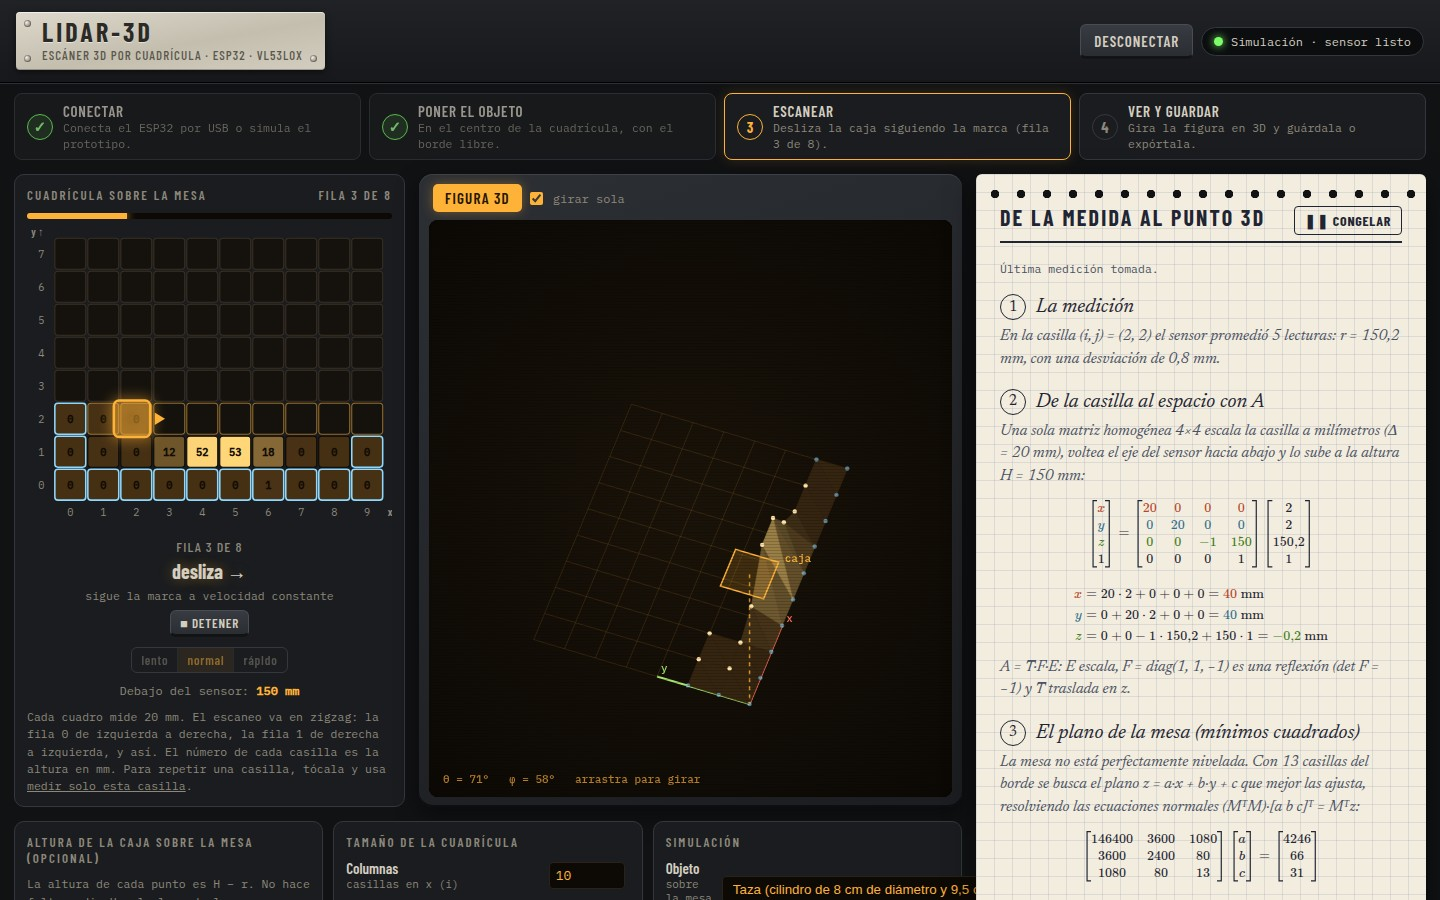
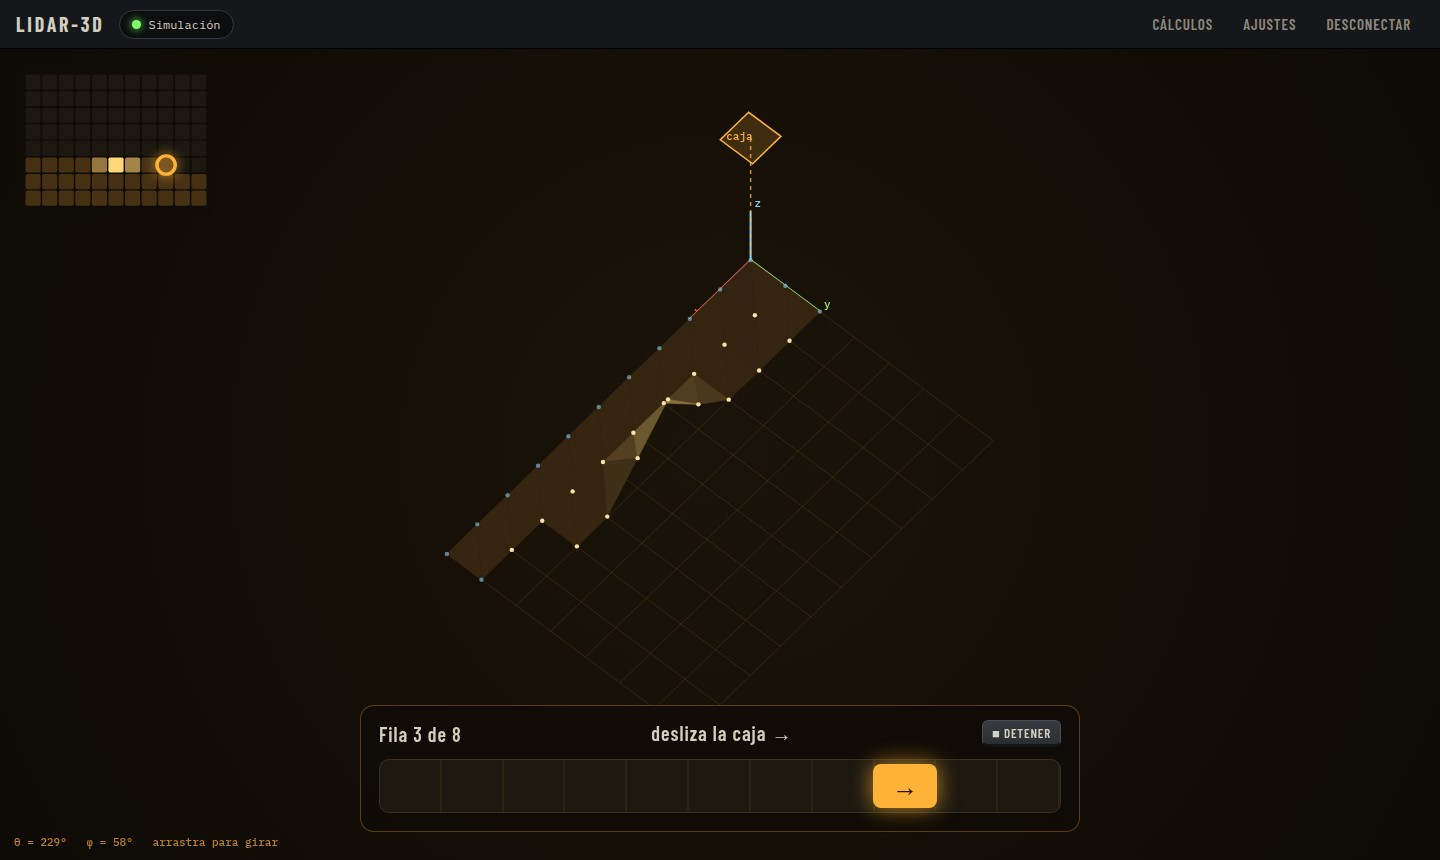
docs(informe): interfaz minimalista y montaje con regla sobre libros

diff --git a/docs/secciones/metodologia.tex b/docs/secciones/metodologia.tex
@@ -23,10 +23,14 @@ VL53L0X se alimenta con 3,3 V y se comunica con el ESP32 por el bus
 I\textsuperscript{2}C (GPIO 21 para SDA y GPIO 22 para SCL); sus cuatro cables
 van soldados a los pines del ESP32. El sensor va dentro de una caja de cartón,
 pegado al fondo con el lente asomando por un orificio, de modo que mide hacia
-abajo. La caja se apoya sobre un soporte a una altura fija $H$ sobre la mesa,
-y debajo se coloca una cartulina con una cuadrícula de cuadros de lado
-$\Delta$ dibujada con regla (Figura~\ref{fig:montaje}). El prototipo no
-necesita componentes adicionales.
+abajo. Para mantener una altura fija $H$ sobre la mesa, la caja va sujeta a
+una regla apoyada sobre dos pilas de libros de unos 15 cm, una a cada lado de
+un octavo de cartulina en el que se dibuja una cuadrícula de cuadros de lado
+$\Delta$ (Figura~\ref{fig:montaje}). En cada fila la caja se desliza a lo largo
+de la regla, en la dirección $x$; para pasar a la fila siguiente, la regla se
+corre un cuadro hacia adelante, en la dirección $y$. La altura importa porque
+el VL53L0X no mide bien a menos de unos 3 cm y porque la caja debe pasar por
+encima del objeto. El prototipo no necesita componentes adicionales.
 
 \begin{table}[htbp]
 \caption{Materiales del prototipo y costo aproximado}
@@ -68,14 +72,15 @@ envían su media y su desviación estándar.
 
 \subsection{Procedimiento de escaneo}
 
-Se usó una cuadrícula de \simNX{} columnas por \simNY{} filas con cuadros de
-\simPaso{} mm. El escaneo se inicia con un solo botón:
+Por defecto, la interfaz usa una cuadrícula de 11 columnas por 8 filas con
+cuadros de 30 mm (33 $\times$ 24 cm, el tamaño de un octavo de cartulina) y una
+marca que avanza a 30 mm/s. El escaneo se inicia con un solo botón:
 \begin{enumerate}
 \item Se coloca el objeto en el centro de la cuadrícula, dejando libres las
 casillas del borde, y la caja en la esquina $(0,0)$.
 \item Se pulsa \textit{Escanear}. Después de una cuenta regresiva de tres
-segundos, una marca recorre la fila a velocidad constante (20 mm/s por
-defecto) y la persona desliza la caja siguiéndola. La posición de cada lectura
+segundos, una marca recorre la fila a velocidad constante y la persona
+desliza la caja siguiéndola. La posición de cada lectura
 se obtiene con la ecuación~\eqref{eq:tiempo}.
 \item Al final de la fila hay otra cuenta regresiva para pasar a la siguiente.
 El recorrido sigue un zigzag (la fila 0 de izquierda a derecha, la fila 1 de
@@ -110,23 +115,25 @@ La interfaz se construyó con React y TypeScript, se empaqueta con Bun y se
 ejecuta en el navegador. Recibe los datos del ESP32 por un puente USB
 (\texttt{web/puente.ts}) que reenvía el puerto serie por WebSocket, lo que
 permite usarla en cualquier navegador; sin el puente, usa la API Web Serial de
-Chrome. Tiene cinco partes:
+Chrome. Su diseño es minimalista: la figura 3D ocupa la pantalla y, encima, un
+solo control cambia según el momento.
 \begin{itemize}
-\item Una guía de cuatro pasos (conectar, medir la mesa, recorrer la cuadrícula
-y ver y guardar) que se marca sola a medida que se avanza.
-\item La cuadrícula vista desde arriba, con el botón \textit{Escanear}, la
-marca que la caja debe seguir, la cuenta regresiva entre filas y la lectura en
-vivo. Las casillas se colorean según su altura a medida que se miden.
-\item La figura 3D, que se construye mientras se escanea y se gira arrastrando
-con el mouse.
-\item Un cuaderno que desglosa, con KaTeX y con los números de una medición, los
+\item En reposo muestra en grande la distancia que mide el sensor y el botón
+\textit{Escanear}. Si la caja está a menos de 6 cm de la mesa, avisa que hay
+que subirla.
+\item Durante el escaneo muestra la fila actual, la cuenta regresiva y una
+barra con la marca que la caja debe seguir. Un mapa pequeño de la cuadrícula,
+en una esquina, se colorea según la altura a medida que se mide.
+\item La figura 3D se construye mientras se escanea y se gira arrastrando con
+el mouse.
+\item Un botón \textit{Cálculos} abre un cuaderno que desglosa, con KaTeX y con los números de una medición, los
 cinco pasos del cálculo: la medición, el producto por $A$, el plano de la mesa
 con sus ecuaciones normales, la rotación y la proyección de la vista, y el
 producto vectorial y el producto punto del sombreado. Se puede congelar en una
-casilla o elegir una casilla medida para ver su cálculo.
-\item Los ajustes: la altura $H$, el tamaño de la cuadrícula y los archivos.
-Cada escaneo se puede guardar en el navegador o exportar como malla 3D
-(\texttt{.obj}), como tabla (\texttt{.csv}) o como archivo de la página
+casilla o elegir una casilla en el mapa para ver su cálculo.
+\item Un botón \textit{Ajustes} abre el tamaño de la cuadrícula, la velocidad
+de la marca y los archivos. Cada escaneo se puede guardar en el navegador o
+exportar como malla 3D (\texttt{.obj}) o como archivo de la página
 (\texttt{.json}).
 \end{itemize}
 El botón \textit{Simular prototipo} reemplaza el sensor por un simulador que
@@ -146,7 +153,8 @@ superficies cercanas, porque devuelven más luz. A cada lectura se le suma un
 ruido uniforme de $\pm 2$ mm, y el generador de números aleatorios usa una
 semilla fija para que los resultados se puedan reproducir. Se escanearon tres
 objetos de forma conocida (una taza cilíndrica, una caja y unos libros
-escalonados) y la mesa vacía; en estos experimentos cada casilla se midió con
+escalonados) y la mesa vacía, con una cuadrícula de \simNX{} $\times$ \simNY{}
+cuadros de \simPaso{} mm; en estos experimentos cada casilla se midió con
 diez lecturas en su centro, lo que equivale a seguir la marca sin error. Para
 los objetos se calculó el error de la altura
 en todas las casillas; para la mesa vacía, con y sin la corrección del plano.

diff --git a/docs/secciones/resultados.tex b/docs/secciones/resultados.tex
@@ -48,19 +48,18 @@ fallos.
 \subsection{Interfaz web}
 
 La Figura~\ref{fig:escaneando} muestra la interfaz durante un escaneo continuo
-de la taza en simulación. A la izquierda, la marca avanza por la tercera fila y
-la flecha indica hacia dónde deslizar la caja; las casillas ya recorridas
-muestran la altura medida. A la derecha, la figura 3D se construye al mismo
-tiempo y muestra la caja sobre la casilla actual. La
-Figura~\ref{fig:interfaz} muestra el resultado al terminar las ocho filas.
+de la taza en simulación, con la cuadrícula por defecto de 11 $\times$ 8
+cuadros de 30 mm. Abajo, la barra indica dónde debe ir la caja en la fila; en
+la esquina, el mapa de la cuadrícula muestra las filas ya recorridas; detrás,
+la figura 3D se construye al mismo tiempo. La Figura~\ref{fig:interfaz} muestra
+el resultado al terminar las ocho filas.
 
 \begin{figure}[htbp]
 \caption{Escaneo continuo en curso}
 \label{fig:escaneando}
 \centering
 \includegraphics[width=\linewidth]{interfaz_escaneando.jpg}
-\figurenote{Tercera fila del escaneo de la taza en el modo de simulación.
-Elaboración propia.}
+\figurenote{Escaneo de la taza en el modo de simulación. Elaboración propia.}
 \end{figure}
 
 \begin{figure}[htbp]
@@ -68,28 +67,28 @@ Elaboración propia.}
 \label{fig:interfaz}
 \centering
 \includegraphics[width=\linewidth]{interfaz_general.jpg}
-\figurenote{Taza escaneada en el modo de simulación. El número de cada casilla
-es la altura medida en mm; el borde celeste marca las casillas usadas para el
-plano de la mesa. Elaboración propia.}
+\figurenote{Taza escaneada en el modo de simulación. En el mapa de la esquina,
+el color de cada casilla indica su altura. Elaboración propia.}
 \end{figure}
 
-La Figura~\ref{fig:cuaderno} muestra el cuaderno con el cálculo congelado en la
-casilla $(5,4)$, en el borde de la taza, donde se promediaron 13 lecturas del
-escaneo continuo. Con $r = 52{,}8$ mm y $H = 150$ mm, el producto por $A$ da
-$z = -52{,}8 + 150 = 97{,}2$ mm. El plano de la mesa, ajustado con 32 casillas
-del borde, vale $1{,}63$ mm en ese punto, de modo que la altura del objeto es
-$h = 97{,}2 - 1{,}63 = 95{,}5$ mm. El cuaderno también muestra la matriz de
-vista con los ángulos del momento, la proyección del punto en la pantalla y el
-producto vectorial
-$(20;\,0;\,-6{,}0)\times(0;\,20;\,-5{,}7) = (120{,}0;\,114{,}6;\,400{,}0)$, que da
-la normal del triángulo y, con el producto punto, su brillo.
+La Figura~\ref{fig:cuaderno} muestra el panel de cálculos congelado en la
+casilla $(5,3)$, sobre la parte superior de la taza, donde se promediaron 25
+lecturas del escaneo continuo. Con $r = 51{,}9$ mm y $H = 150$ mm, el producto
+por $A$ da $z = -51{,}9 + 150 = 98{,}1$ mm. El plano de la mesa, ajustado con 34
+casillas del borde, vale $3{,}10$ mm en ese punto, de modo que la altura del
+objeto es $h = 98{,}1 - 3{,}10 = 95{,}0$ mm, igual a la altura de la taza
+simulada. El panel también muestra la matriz de vista con los ángulos del
+momento, la proyección del punto en la pantalla y la normal del triángulo,
+$(255{,}1;\;1{,}7;\;900{,}0)$, obtenida con el producto vectorial; con el
+producto punto, ese triángulo tiene un brillo de $0{,}725$.
 
 \begin{figure}[htbp]
-\caption{Cuaderno de la interfaz: cálculo desglosado de una medición}
+\caption{Panel de cálculos: cálculo desglosado de una medición}
 \label{fig:cuaderno}
 \centering
 \includegraphics[width=0.48\linewidth]{interfaz_cuaderno.png}
-\figurenote{Casilla $(5,4)$ del escaneo continuo simulado de la taza. Elaboración propia.}
+\figurenote{Casilla $(5,3)$ del escaneo continuo simulado de la taza. Los
+vectores se muestran redondeados a una cifra decimal. Elaboración propia.}
 \end{figure}
 
 \subsection{Mediciones con el sensor real}
@@ -99,8 +98,9 @@ prueba, en el modo de alta precisión del sensor, una de cada dos lecturas
 llegaba marcada como inválida; con el filtro por código de estado y los
 reintentos, las lecturas inválidas desaparecieron. Con el firmware final, en
 el modo por defecto, la interfaz recibió \repTasa{} lecturas por segundo a
-través del puente USB, sin lecturas inválidas. A 20 mm/s, eso equivale a unas
-24 lecturas por cada 20 mm de recorrido. Para medir la repetibilidad se tomaron
+través del puente USB, sin lecturas inválidas. Con la marca a 30 mm/s, la caja
+tarda un segundo en cruzar cada cuadro de 30 mm, así que cada casilla recibe
+unas 24 lecturas. Para medir la repetibilidad se tomaron
 \repN{} mediciones promediadas seguidas con la caja quieta. Su media fue de
 \repMedia{} mm, con valores entre \repMin{} y \repMax{} mm y una desviación
 estándar de \repDesv{} mm entre mediciones. Dentro de cada medición, la
